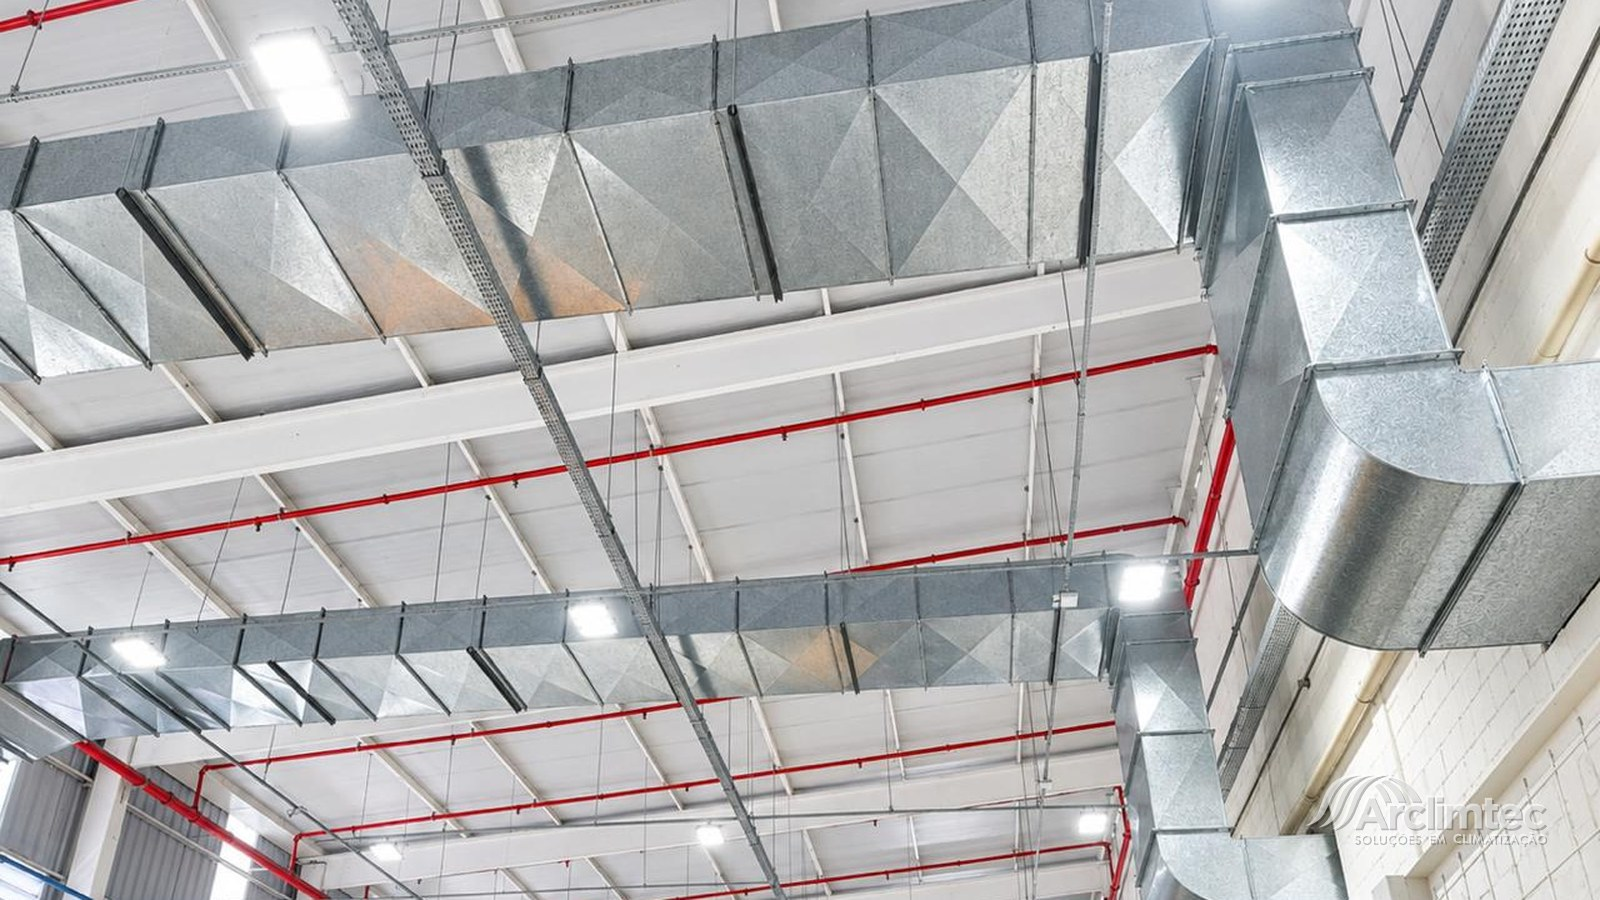
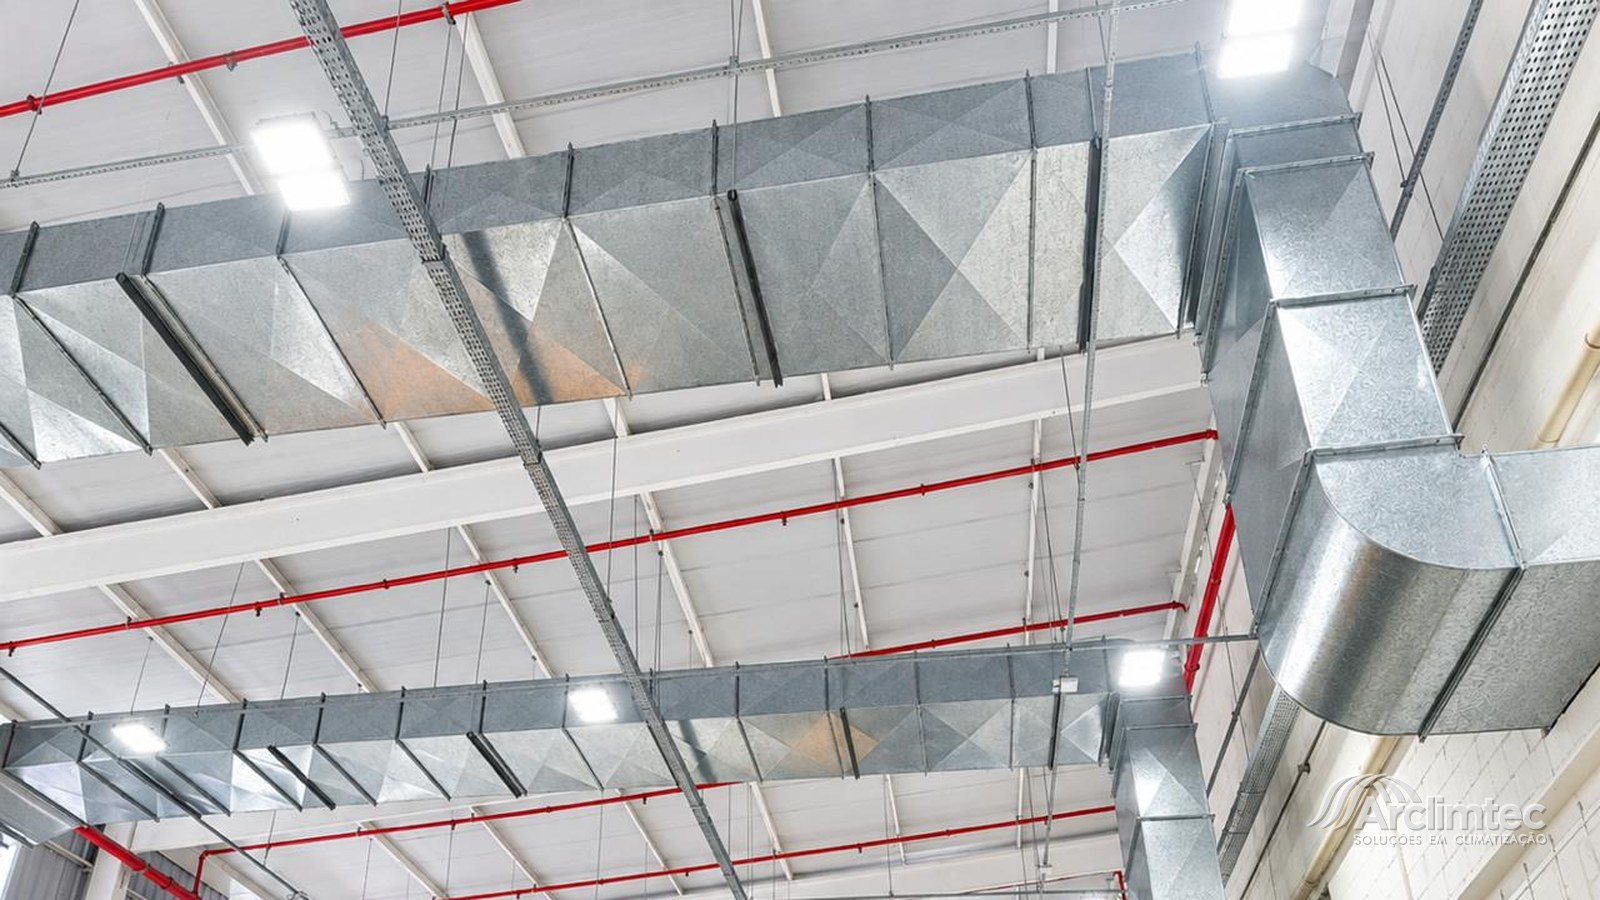
Foto dos dutos não perde mais a parte de cima
O recorte entrava com foco 0.18 e tirava 68px do topo, bem onde o duto
encosta na borda. Com foco 0 o recorte todo sai de baixo, do piso vazio,
e o duto chega inteiro.

Claude-Session: https://claude.ai/code/session_01KMevLMmJCXrFvYdEtjdCYQ

diff --git a/tools/hero_slides.py b/tools/hero_slides.py
@@ -53,8 +53,9 @@ SLIDES = [
     (ORIGINAIS / "p-hero-4-duto-vertical.jpg", "p-hero-4-duto-vertical.jpg", "blur", 0.5),
     (ORIGINAIS / "p-hero-5-condensadoras-laje.jpg", "p-hero-5-condensadoras-laje.jpg", "corta", 0.5),
     (ORIGINAIS / "p-hero-6-condensadoras-aquasnap.jpg", "p-hero-6-condensadoras-aquasnap.jpg", "corta", 0.5),
-    # quase quadrada e com o assunto no teto: o foco alto joga fora o piso vazio
-    (ORIGINAIS / "p-hero-7-dutos-teto.jpg", "p-hero-7-dutos-teto.jpg", "corta", 0.18),
+    # quase quadrada, com o duto encostando no topo: foco 0 nao tira nada de
+    # cima (pedido do Caio em 18/09/2026), o recorte todo sai do piso vazio
+    (ORIGINAIS / "p-hero-7-dutos-teto.jpg", "p-hero-7-dutos-teto.jpg", "corta", 0.0),
 ]
 
 
